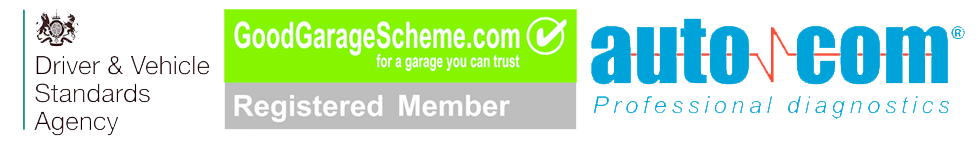
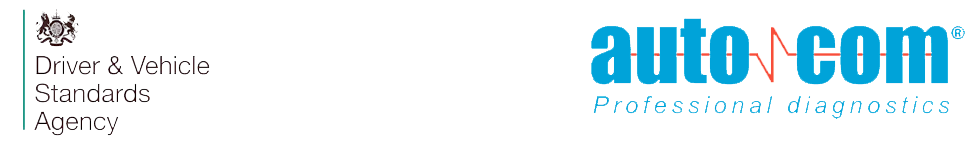
updated images, removed good garage scheme

Changed region(s): [[0.2143, 0.0556, 0.6122, 0.9167]]

diff --git a/_layouts/default.html b/_layouts/default.html
@@ -64,7 +64,7 @@
         </tr>
         </table>
         {{ content }}
-        <!--<img align="center" src="assets/images/acreditation.png?raw=true" alt="Acredited by the DVLA, Good Garage SCheme registered member, AUTOCOM profesional diagnostics"> -->
+        <img align="center" src="assets/images/acreditation.png?raw=true" alt="Acredited by the DVLA, AUTOCOM profesional diagnostics">
       </section>
 
       <footer>
